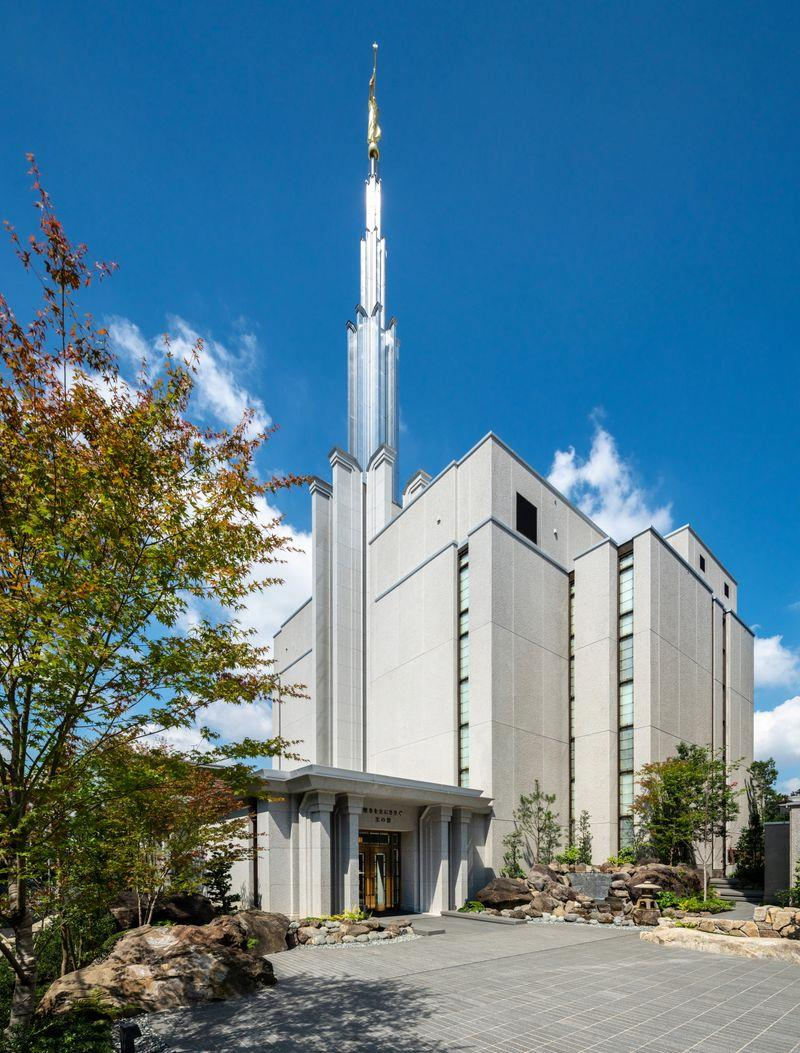
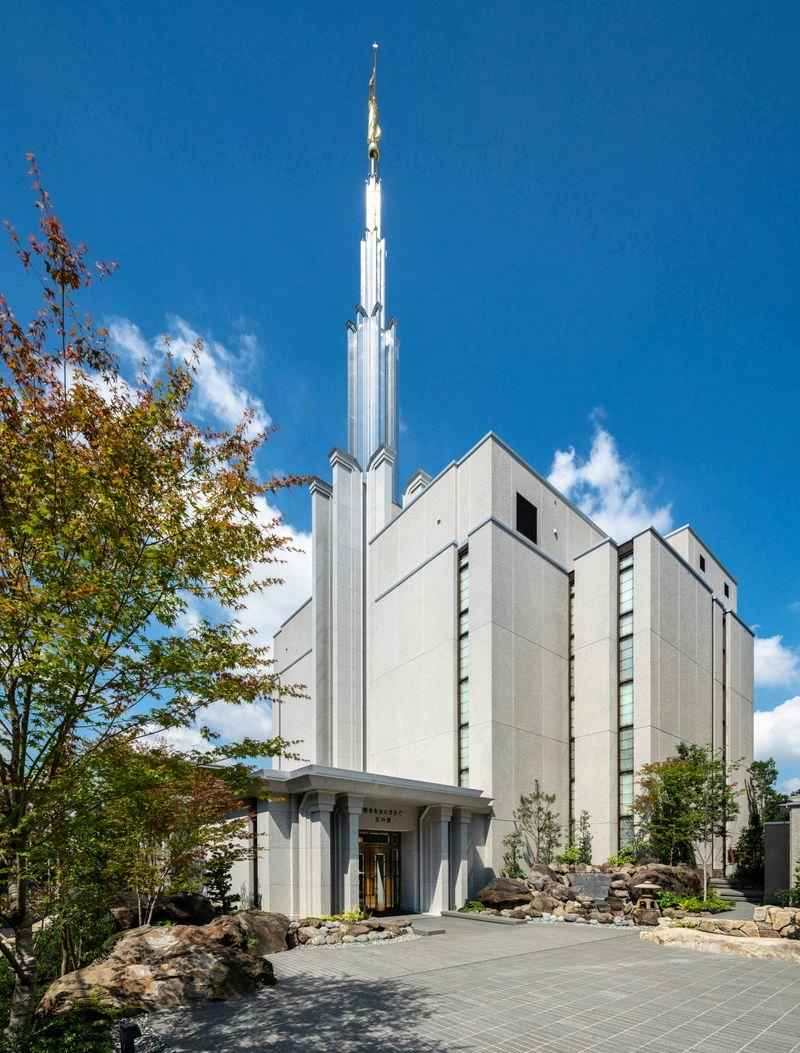
ajustes album

diff --git a/templos.html b/templos.html
@@ -4,18 +4,23 @@
 <head>
     <meta charset="UTF-8">
     <meta name="viewport" content="width=device-width, initial-scale=1.0">
+    <meta name="description"
+        content="Álbum de fotos e galeria responsiva dos templos religiosos ao redor do mundo, apresentando arquiteturas modernas e antigas.">
+    <meta name="author" content="Miguel Enrique Fernandez Rodriguez">
     <title>Album do Templo</title>
+    <link rel="preconnect" href="https://fonts.googleapis.com">
+    <link rel="preconnect" href="https://fonts.gstatic.com" crossorigin>
+    <link href="https://fonts.googleapis.com/css2?family=Inter:wght@400;500&family=Montserrat:wght@600;700&display=swap"
+        rel="stylesheet">
 
-
-    <link rel="stylesheet" href="estilos/templos-grandes.css">
+    <link rel="stylesheet" href="estilos/templos-grande.css">
     <link rel="stylesheet" href="estilos/templos.css">
     <script src="scripts/templos.js" defer></script>
-
 </head>
 
 <body>
     <header>
-        <h1>Álbum do Templo</h1>
+        <p class="header-title">Álbum do Templo</p>
         <button id="menu-toggle" aria-label="Abrir menu">☰</button>
         <nav id="nav-menu">
             <ul>
@@ -31,66 +36,48 @@
     <main>
         <h1>Pagina Inicial</h1>
 
-
         <figure>
             <img src="imagens/templo_salt_lake.jpg" alt="Templo de Salt Lake, Utah" width="200">
-
             <figcaption>Templo de Salt Lake (Utah, EUA)</figcaption>
         </figure>
 
-
         <figure>
             <img src="imagens/templo_roma.jpg" alt="Templo de Roma, Italia" width="200">
-
             <figcaption>Templo de Roma (Itália)</figcaption>
         </figure>
 
-
         <figure>
             <img src="imagens/templo_tokio.jpg" alt="Templo de Toquio, Japão" width="200">
-
             <figcaption>Templo de Tóquio (Japão)</figcaption>
         </figure>
 
-
         <figure>
             <img src="imagens/templo_sao_paulo.jpg" alt="Templo de São Paulo, Brasil" width="200">
-
             <figcaption>Templo de São Paulo (Brasil)</figcaption>
         </figure>
 
-
         <figure>
             <img src="imagens/templo_san_diego.jpg" alt="Templo de San Diego, USA" width="200">
-
             <figcaption>Templo de San Diego (Califórnia, EUA)</figcaption>
         </figure>
 
-
         <figure>
             <img src="imagens/templo_frankfurt.jpg" alt="Templo de Frankfurt, Alemanha" width="200">
-
             <figcaption>Templo de Frankfurt (Alemanha)</figcaption>
         </figure>
 
-
         <figure>
             <img src="imagens/templo_curitiba.jpg" alt="Templo de Curitiba, Brasil" width="200">
-
             <figcaption>Templo de Curitiba (Brasil)</figcaption>
         </figure>
 
-
         <figure>
             <img src="imagens/templo_paris.jpg" alt="Templo de Paris, França" width="200">
-
             <figcaption>Templo de Paris (França)</figcaption>
         </figure>
 
-
         <figure>
             <img src="imagens/templo_nova_iorque.jpg" alt="Templo de Nova York, USA" width="200">
-
             <figcaption>Templo de Manhattan (Nova York, EUA)</figcaption>
         </figure>
     </main>
@@ -99,7 +86,6 @@
         <p>&copy; <span id="anoAtual"></span> Miguel Enrique Fernandez Rodriguez - Paraná, Brasil</p>
         <p id="ultimaModificacao"></p>
     </footer>
-
 </body>
 
 </html>

diff --git a/estilos/templos.css b/estilos/templos.css
@@ -1,5 +1,3 @@
-@import url('https://fonts.googleapis.com/css2?family=Inter:wght@400;500&family=Montserrat:wght@600;700&display=swap');
-
 * {
     margin: 0;
     padding: 0;
@@ -25,9 +23,10 @@ header {
     position: relative;
 }
 
-header h1 {
+header .header-title {
     font-family: 'Montserrat', sans-serif;
     font-size: 1.5rem;
+    font-weight: 700;
     color: #ffffff;
     margin-bottom: 0.5rem;
 }
@@ -76,7 +75,6 @@ nav ul li a {
     border-radius: 4px;
     transition: all 0.2s ease;
 }
-
 
 nav ul li a:hover {
     background-color: #ffffff;

diff --git a/estilos/templos-grandes.css b/estilos/templos-grandes.css
@@ -8,7 +8,7 @@
         padding: 1.2rem 2.5rem;
     }
 
-    header h1 {
+    header .header-title {
         margin-bottom: 0;
     }
 